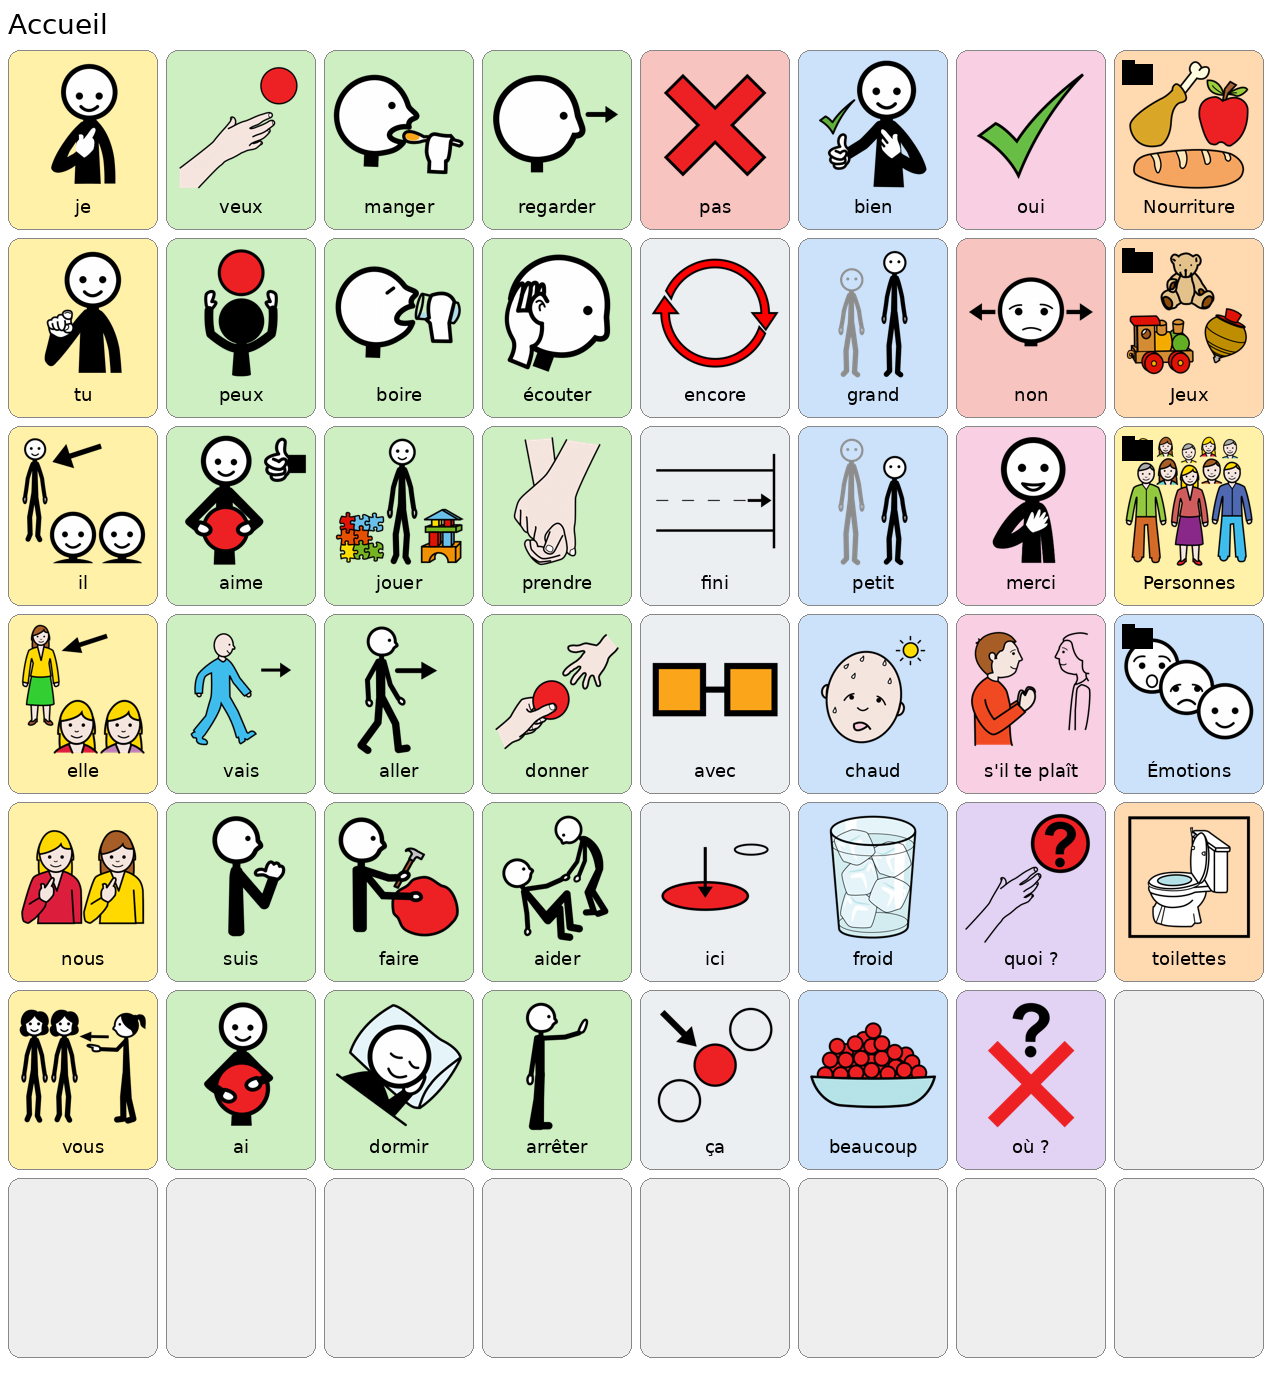
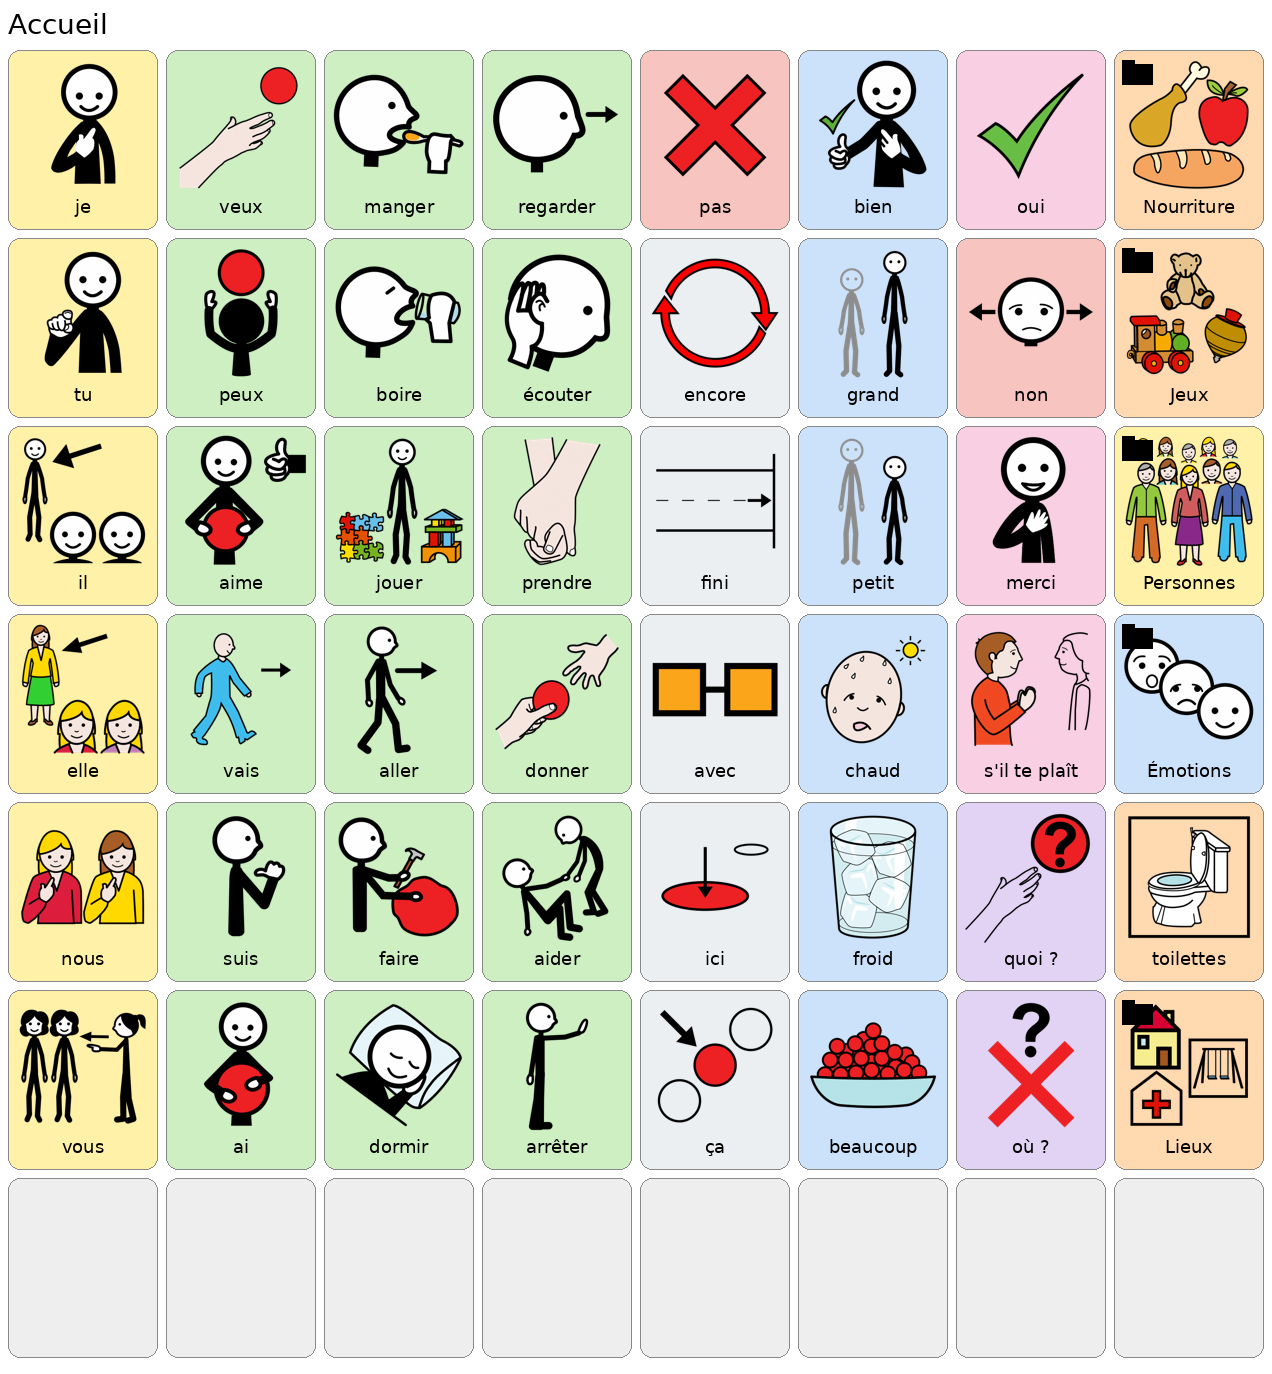
feat(vocabulaire): ajoute le dossier Lieux à l'accueil

Changed region(s): [[0.8585, 0.7031, 1.0, 0.8559]]

diff --git a/app/src/main/java/com/wobblebot/papotons/data/board/CoreVocabulary.kt b/app/src/main/java/com/wobblebot/papotons/data/board/CoreVocabulary.kt
@@ -18,6 +18,7 @@ object CoreVocabulary {
     private const val GAMES_BOARD_ID = 3L
     private const val PEOPLE_BOARD_ID = 4L
     private const val FEELINGS_BOARD_ID = 5L
+    private const val PLACES_BOARD_ID = 6L
 
     fun build(label: (Int) -> String): VocabularySeed {
         fun cell(
@@ -44,6 +45,7 @@ object CoreVocabulary {
             BoardEntity(GAMES_BOARD_ID, label(R.string.vocabulary_board_games), 4, 6),
             BoardEntity(PEOPLE_BOARD_ID, label(R.string.vocabulary_board_people), 4, 6),
             BoardEntity(FEELINGS_BOARD_ID, label(R.string.vocabulary_board_feelings), 4, 6),
+            BoardEntity(PLACES_BOARD_ID, label(R.string.vocabulary_board_places), 4, 6),
         )
         val cells = listOf(
             cell(HOME_BOARD_ID, 0, 0, R.string.vocabulary_i, 6632, WordCategory.PEOPLE, null),
@@ -93,6 +95,7 @@ object CoreVocabulary {
             cell(HOME_BOARD_ID, 2, 7, R.string.vocabulary_board_people, 7116, WordCategory.PEOPLE, PEOPLE_BOARD_ID),
             cell(HOME_BOARD_ID, 3, 7, R.string.vocabulary_board_feelings, 12359, WordCategory.DESCRIPTOR, FEELINGS_BOARD_ID),
             cell(HOME_BOARD_ID, 4, 7, R.string.vocabulary_toilet, 5921, WordCategory.NOUN, null),
+            cell(HOME_BOARD_ID, 5, 7, R.string.vocabulary_board_places, 32598, WordCategory.NOUN, PLACES_BOARD_ID),
             cell(FOOD_BOARD_ID, 0, 0, R.string.vocabulary_apple, 13644, WordCategory.NOUN, null),
             cell(FOOD_BOARD_ID, 0, 1, R.string.vocabulary_banana, 2530, WordCategory.NOUN, null),
             cell(FOOD_BOARD_ID, 0, 2, R.string.vocabulary_bread, 2494, WordCategory.NOUN, null),
@@ -139,6 +142,18 @@ object CoreVocabulary {
             cell(FEELINGS_BOARD_ID, 1, 2, R.string.vocabulary_hurt, 2367, WordCategory.NOUN, null),
             cell(FEELINGS_BOARD_ID, 1, 3, R.string.vocabulary_calm, 31310, WordCategory.DESCRIPTOR, null),
             cell(FEELINGS_BOARD_ID, 1, 4, R.string.vocabulary_surprised, 35529, WordCategory.DESCRIPTOR, null),
+            cell(PLACES_BOARD_ID, 0, 0, R.string.vocabulary_house, 2317, WordCategory.NOUN, null),
+            cell(PLACES_BOARD_ID, 0, 1, R.string.vocabulary_school, 32446, WordCategory.NOUN, null),
+            cell(PLACES_BOARD_ID, 0, 2, R.string.vocabulary_park, 2859, WordCategory.NOUN, null),
+            cell(PLACES_BOARD_ID, 0, 3, R.string.vocabulary_shop, 9116, WordCategory.NOUN, null),
+            cell(PLACES_BOARD_ID, 0, 4, R.string.vocabulary_bedroom, 33068, WordCategory.NOUN, null),
+            cell(PLACES_BOARD_ID, 0, 5, R.string.vocabulary_kitchen, 10752, WordCategory.NOUN, null),
+            cell(PLACES_BOARD_ID, 1, 0, R.string.vocabulary_bathroom, 6930, WordCategory.NOUN, null),
+            cell(PLACES_BOARD_ID, 1, 1, R.string.vocabulary_garden, 2434, WordCategory.NOUN, null),
+            cell(PLACES_BOARD_ID, 1, 2, R.string.vocabulary_swimming_pool, 30516, WordCategory.NOUN, null),
+            cell(PLACES_BOARD_ID, 1, 3, R.string.vocabulary_beach, 30518, WordCategory.NOUN, null),
+            cell(PLACES_BOARD_ID, 1, 4, R.string.vocabulary_hospital, 6523, WordCategory.NOUN, null),
+            cell(PLACES_BOARD_ID, 1, 5, R.string.vocabulary_restaurant, 32408, WordCategory.NOUN, null),
         )
         return VocabularySeed(boards, cells)
     }

diff --git a/tools/arasaac/fetch_pictograms.py b/tools/arasaac/fetch_pictograms.py
@@ -63,6 +63,7 @@ BOARDS = [
     ("games", "Jeux", "Games", 4, 6),
     ("people", "Personnes", "People", 4, 6),
     ("feelings", "Émotions", "Feelings", 4, 6),
+    ("places", "Lieux", "Places", 4, 6),
 ]
 BOARD_IDS = {key: index + 1 for index, (key, *_rest) in enumerate(BOARDS)}
 assert BOARD_IDS["home"] == 1, "l'accueil doit garder l'id 1 (HOME_BOARD_ID)"
@@ -102,13 +103,14 @@ HOME_COLUMNS = [
      ("please", "s'il te plaît", "please", SOCIAL, "s'il te plaît"), ("what", "quoi ?", "what?", QUESTION, "quoi"), ("where", "où ?", "where?", QUESTION, "où")],
 ]
 # Ligne 6 de l'accueil : libre dans chaque colonne, pour le vocabulaire ajouté plus tard.
-# Colonne 7 : dossiers, puis « toilettes » (indispensable) ; ligne 5 libre.
+# Colonne 7 : dossiers, « toilettes » (indispensable) en ligne 4, puis le dossier des lieux.
 HOME_FOLDERS = [
     ("folder_food", "Nourriture", "Food", NOUN, "nourriture", "food"),
     ("folder_games", "Jeux", "Games", NOUN, "jouet", "games"),
     ("folder_people", "Personnes", "People", PEOPLE, "personnes", "people"),
     ("folder_feelings", "Émotions", "Feelings", DESCRIPTOR, "émotions", "feelings"),
     ("toilet", "toilettes", "toilet", NOUN, "toilettes", None),
+    ("folder_places", "Lieux", "Places", NOUN, "lieu", "places"),
 ]
 FOLDER_WORDS = {
     "food": [
@@ -135,6 +137,12 @@ FOLDER_WORDS = {
         ("hungry", "faim", "hungry", NOUN, None), ("thirsty", "soif", "thirsty", NOUN, None), ("hurt", "mal", "hurt", NOUN, "douleur"),
         ("calm", "calme", "calm", DESCRIPTOR, None), ("surprised", "surpris", "surprised", DESCRIPTOR, None),
     ],
+    "places": [
+        ("house", "maison", "house", NOUN, None), ("school", "école", "school", NOUN, None), ("park", "parc", "park", NOUN, None),
+        ("shop", "magasin", "shop", NOUN, None), ("bedroom", "chambre", "bedroom", NOUN, None), ("kitchen", "cuisine", "kitchen", NOUN, None),
+        ("bathroom", "salle de bain", "bathroom", NOUN, None), ("garden", "jardin", "garden", NOUN, None), ("swimming_pool", "piscine", "swimming pool", NOUN, None),
+        ("beach", "plage", "beach", NOUN, None), ("hospital", "hôpital", "hospital", NOUN, None), ("restaurant", "restaurant", "restaurant", NOUN, None),
+    ],
 }
 FOLDER_COLUMNS = 6
 
@@ -147,6 +155,9 @@ OVERRIDES = {
     "mom": 31148,  # le premier choix était une maman ourse
     "sister": 37966,  # le premier choix était une religieuse
     "that": 7091,  # « celui-là » était peu parlant
+    "folder_places": 32598,  # le premier choix était une flèche et une croix
+    "hospital": 6523,  # le premier choix portait une étoile de David
+    "bedroom": 33068,  # le premier choix était une chambre d'hôtel numérotée
 }
 
 # « quoi ? » : une espace insécable garde le « ? » sur la ligne du mot, et l'appli compte les

diff --git a/docs/test-ferme/questionnaire.md b/docs/test-ferme/questionnaire.md
@@ -15,7 +15,7 @@
 6. Parmi `c'est`, `on`, `moi`, `là`, `mettre`, `ouvrir`, `qui ?`, lesquels ajouter à l'accueil, et où (ligne du bas, ou à la place d'un autre) ?
 7. Quels autres mots manquent, à l'accueil ou dans un dossier ?
 8. Un pictogramme a-t-il été mal compris ou vous paraît-il inadapté ? Lequel, et pourquoi ?
-9. Les dossiers (Nourriture, Jeux, Personnes, Émotions) : lesquels ont servi ? Lesquels manquent ?
+9. Les dossiers (Nourriture, Jeux, Personnes, Émotions, Lieux) : lesquels ont servi ? Lesquels manquent ?
 
 ## L'usage
 
